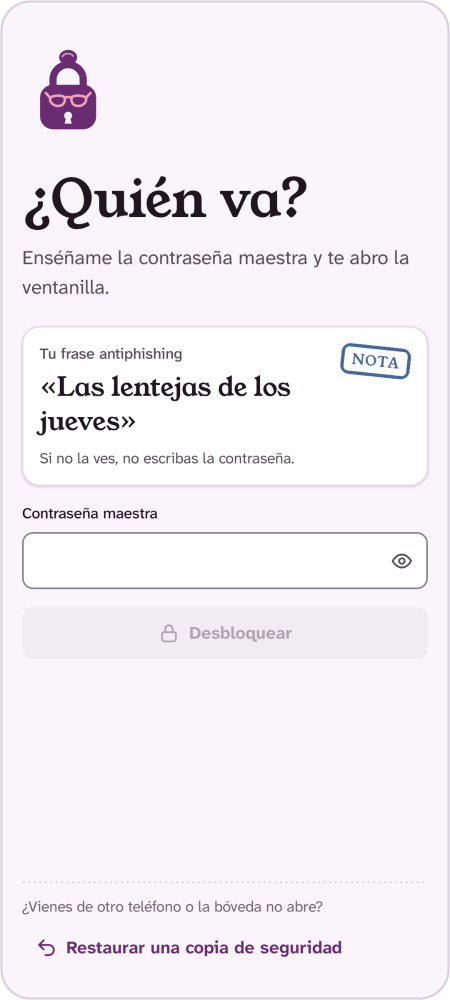
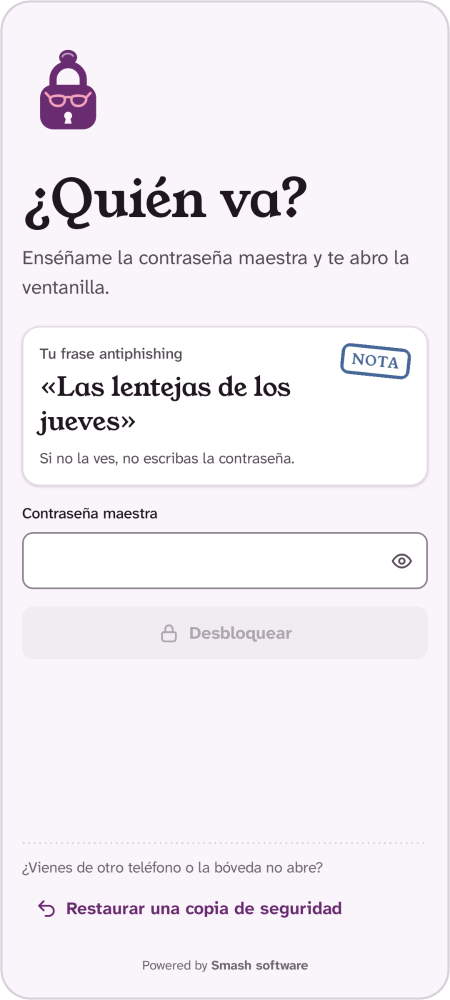
feat: Contraseñora como proyecto de Smash software
La app firma «Powered by Smash software» al pie del desbloqueo (también
cuando sale encima de otra app para autorrellenar), del alta y del
colofón de Ajustes, igual en las dos voces. «Powered by» va marcado en
inglés para que TalkBack no lo lea con la voz española, y el nombre de
la empresa está en un solo sitio (EMPRESA, en ui/components/Marca.kt).

El README lo dice bajo el lema, en «Para quién y en qué estado» (antes,
«proyecto personal») y en la licencia; SECURITY.md, en la introducción y
en a quién escribir para informar de un fallo. La captura del desbloqueo
y la hoja de pantallas se regeneran con el pie nuevo.

Claude-Session: https://claude.ai/code/session_01MVQS3RveqNFVTqYWv1UE2C

diff --git a/app/src/main/java/io/github/jls97/boveda/ui/lock/UnlockScreen.kt b/app/src/main/java/io/github/jls97/boveda/ui/lock/UnlockScreen.kt
@@ -70,6 +70,7 @@ import io.github.jls97.boveda.ui.components.LineaPunteada
 import io.github.jls97.boveda.ui.components.NoLearningTextField
 import io.github.jls97.boveda.ui.components.OpenLocalDocument
 import io.github.jls97.boveda.ui.components.PasswordField
+import io.github.jls97.boveda.ui.components.PoweredBy
 import io.github.jls97.boveda.ui.components.RestoreBackupDialog
 import io.github.jls97.boveda.ui.components.SecureAlertDialog
 import io.github.jls97.boveda.ui.components.Sello
@@ -286,8 +287,9 @@ fun UnlockScreen(
  * Lo que se ve de la pantalla de desbloqueo, sin estado: el isotipo, el título, para quién es (en el
  * autorrelleno), la frase antiphishing y la contraseña o la huella; durante el bloqueo temporal,
  * «Descanse en Pass» con su cuenta atrás y, si hay huella, el botón para entrar con ella, que no
- * pasa por el freno de intentos. [blockedSeconds] es null si no hay bloqueo. [errorEnCampo] dice si
- * [error] es de la contraseña escrita (se muestra bajo el campo) o de otra cosa (debajo, suelto).
+ * pasa por el freno de intentos. Al pie, «Restaurar» y la firma de la empresa. [blockedSeconds] es
+ * null si no hay bloqueo. [errorEnCampo] dice si [error] es de la contraseña escrita (se muestra
+ * bajo el campo) o de otra cosa (debajo, suelto).
  */
 @Composable
 internal fun DesbloqueoContenido(
@@ -343,7 +345,8 @@ internal fun DesbloqueoContenido(
                 Modifier
                     .widthIn(max = 560.dp)
                     .fillMaxWidth()
-                    // Con poco contenido, el pie de «Restaurar» se queda abajo y no flotando a media pantalla.
+                    // Con poco contenido, el pie («Restaurar» y la firma de la empresa) se queda abajo y
+                    // no flotando a media pantalla.
                     .heightIn(min = altoVisible)
                     .padding(start = margen, end = margen, top = Spacing.s10, bottom = Spacing.s6),
             ) {
@@ -455,6 +458,7 @@ internal fun DesbloqueoContenido(
                         BotonFantasma("Volver a la bóveda anterior", onUndoRestore, enabled = !busy)
                     }
                 }
+                PoweredBy(Modifier.fillMaxWidth().padding(top = Spacing.s5))
             }
         }
     }

diff --git a/app/src/main/java/io/github/jls97/boveda/ui/components/Marca.kt b/app/src/main/java/io/github/jls97/boveda/ui/components/Marca.kt
@@ -31,6 +31,12 @@ import androidx.compose.ui.semantics.clearAndSetSemantics
 import androidx.compose.ui.semantics.contentDescription
 import androidx.compose.ui.semantics.liveRegion
 import androidx.compose.ui.semantics.semantics
+import androidx.compose.ui.text.SpanStyle
+import androidx.compose.ui.text.buildAnnotatedString
+import androidx.compose.ui.text.font.FontWeight
+import androidx.compose.ui.text.intl.LocaleList
+import androidx.compose.ui.text.style.TextAlign
+import androidx.compose.ui.text.withStyle
 import androidx.compose.ui.unit.Dp
 import androidx.compose.ui.unit.dp
 import io.github.jls97.boveda.ui.theme.ContrasenoraTheme
@@ -135,4 +141,28 @@ fun Trabajando(texto: String, modifier: Modifier = Modifier, tamano: Dp = 28.dp)
         Isotipo(Modifier.size(tamano), apertura = { arco?.value ?: 0f }, simple = tamano < 32.dp)
         Text(texto, style = ContrasenoraTheme.type.body, color = ContrasenoraTheme.colors.textSecondary)
     }
+}
+
+/** La empresa que hace Contraseñora. */
+private const val EMPRESA = "Smash software"
+
+// «Powered by» va marcado en inglés para que TalkBack no lo lea con la voz española.
+private val FirmaDeLaEmpresa = buildAnnotatedString {
+    withStyle(SpanStyle(localeList = LocaleList("en"))) { append("Powered by ") }
+    withStyle(SpanStyle(fontWeight = FontWeight.Bold)) { append(EMPRESA) }
+}
+
+/**
+ * «Powered by Smash software»: la firma de la empresa al pie del desbloqueo, del alta y de los
+ * Ajustes. Es igual en las dos voces.
+ */
+@Composable
+fun PoweredBy(modifier: Modifier = Modifier) {
+    Text(
+        FirmaDeLaEmpresa,
+        modifier = modifier,
+        style = ContrasenoraTheme.type.caption,
+        color = ContrasenoraTheme.colors.textTertiary,
+        textAlign = TextAlign.Center,
+    )
 }

diff --git a/app/src/main/java/io/github/jls97/boveda/ui/vault/SettingsScreen.kt b/app/src/main/java/io/github/jls97/boveda/ui/vault/SettingsScreen.kt
@@ -113,6 +113,7 @@ import io.github.jls97.boveda.ui.components.OpenLocalDocument
 import io.github.jls97.boveda.ui.components.Pantalla
 import io.github.jls97.boveda.ui.components.PasswordField
 import io.github.jls97.boveda.ui.components.PasswordPromptDialog
+import io.github.jls97.boveda.ui.components.PoweredBy
 import io.github.jls97.boveda.ui.components.Redondel
 import io.github.jls97.boveda.ui.components.Resguardo
 import io.github.jls97.boveda.ui.components.RestoreBackupDialog
@@ -484,8 +485,8 @@ private class Reauth(
 /**
  * Ajustes sin estado: la libreta de la Contraseñora, en seis apartados numerados (seguridad,
  * autorrelleno, códigos 2FA, copias, apariencia y privacidad), el botón de bloquear y el pie con el
- * logotipo. Todo lo que se ve llega como dato y cada toque sale como callback; los diálogos, las
- * comprobaciones y la contraseña maestra viven en [SettingsScreen].
+ * logotipo y la firma de la empresa. Todo lo que se ve llega como dato y cada toque sale como
+ * callback; los diálogos, las comprobaciones y la contraseña maestra viven en [SettingsScreen].
  */
 @Composable
 internal fun AjustesContenido(
@@ -970,7 +971,7 @@ private fun Privacidad(
     )
 }
 
-/** El colofón de la libreta: el logotipo y la firma de la casa. */
+/** El colofón de la libreta: el logotipo, el lema de la casa y la firma de la empresa. */
 @Composable
 private fun Pie() {
     val c = ContrasenoraTheme.colors
@@ -992,6 +993,7 @@ private fun Pie() {
             textAlign = TextAlign.Center,
             modifier = Modifier.padding(top = Spacing.s3),
         )
+        PoweredBy(Modifier.fillMaxWidth().padding(top = Spacing.s5))
     }
 }
 

diff --git a/app/src/main/java/io/github/jls97/boveda/ui/lock/SetupScreen.kt b/app/src/main/java/io/github/jls97/boveda/ui/lock/SetupScreen.kt
@@ -46,6 +46,7 @@ import io.github.jls97.boveda.ui.components.NoLearningTextField
 import io.github.jls97.boveda.ui.components.OpenLocalDocument
 import io.github.jls97.boveda.ui.components.PasswordField
 import io.github.jls97.boveda.ui.components.PasswordPromptDialog
+import io.github.jls97.boveda.ui.components.PoweredBy
 import io.github.jls97.boveda.ui.components.StrengthMeter
 import io.github.jls97.boveda.ui.components.TextoError
 import io.github.jls97.boveda.ui.components.TipoAviso
@@ -126,7 +127,8 @@ fun SetupScreen(viewModel: LockViewModel) {
 
 /**
  * Lo que se ve al estrenar la app, sin estado: la bienvenida de la Contraseñora y un impreso en dos
- * apartados, la contraseña maestra y la frase antiphishing, antes de crear la bóveda.
+ * apartados, la contraseña maestra y la frase antiphishing, antes de crear la bóveda. Al pie,
+ * «Restaurar» y la firma de la empresa.
  */
 @Composable
 internal fun AltaContenido(
@@ -272,6 +274,7 @@ internal fun AltaContenido(
                 icono = R.drawable.ic_deshacer,
                 modifier = Modifier.padding(top = Spacing.s1),
             )
+            PoweredBy(Modifier.fillMaxWidth().padding(top = Spacing.s5))
         }
     }
 }

diff --git a/SECURITY.md b/SECURITY.md
@@ -1,7 +1,8 @@
 # Política de seguridad de Contraseñora
 
-Contraseñora es un gestor de contraseñas personal para Android sin conexión a Internet. Este documento
-resume qué protege, qué no protege, cómo se ha revisado y cómo comunicar un fallo de seguridad.
+Contraseñora es un gestor de contraseñas personal para Android sin conexión a Internet, un proyecto
+de Smash software. Este documento resume qué protege, qué no protege, cómo se ha revisado y cómo
+comunicar un fallo de seguridad.
 
 ## Modelo de amenaza
 
@@ -48,8 +49,8 @@ visual (Contraseñora) es posterior a ese informe.
 
 ## Cómo reportar un fallo
 
-Abre un *issue* en el repositorio **sin incluir detalles explotables**, o escribe al autor por un
-canal privado y acuerda un plazo razonable antes de publicar nada. No hay recompensa económica;
+Abre un *issue* en el repositorio **sin incluir detalles explotables**, o escribe a Smash software
+por un canal privado y acuerda un plazo razonable antes de publicar nada. No hay recompensa económica;
 sí reconocimiento en el historial de cambios si lo deseas.
 
 Al reportar, incluye: versión de la app (`versionName`), modelo y versión de Android, pasos para
